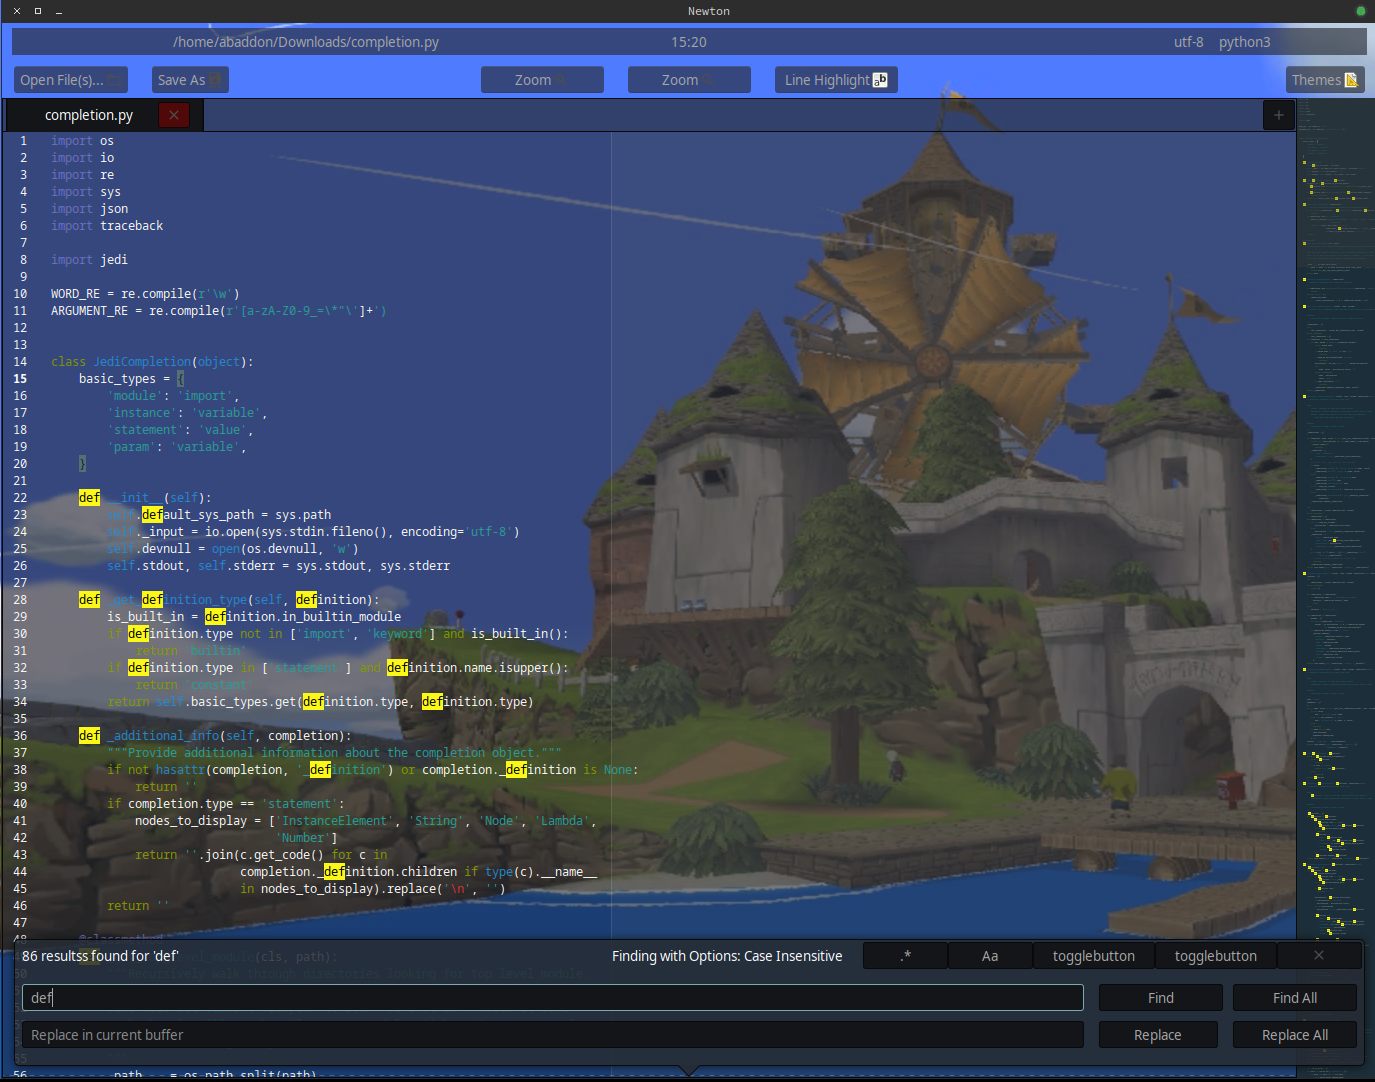
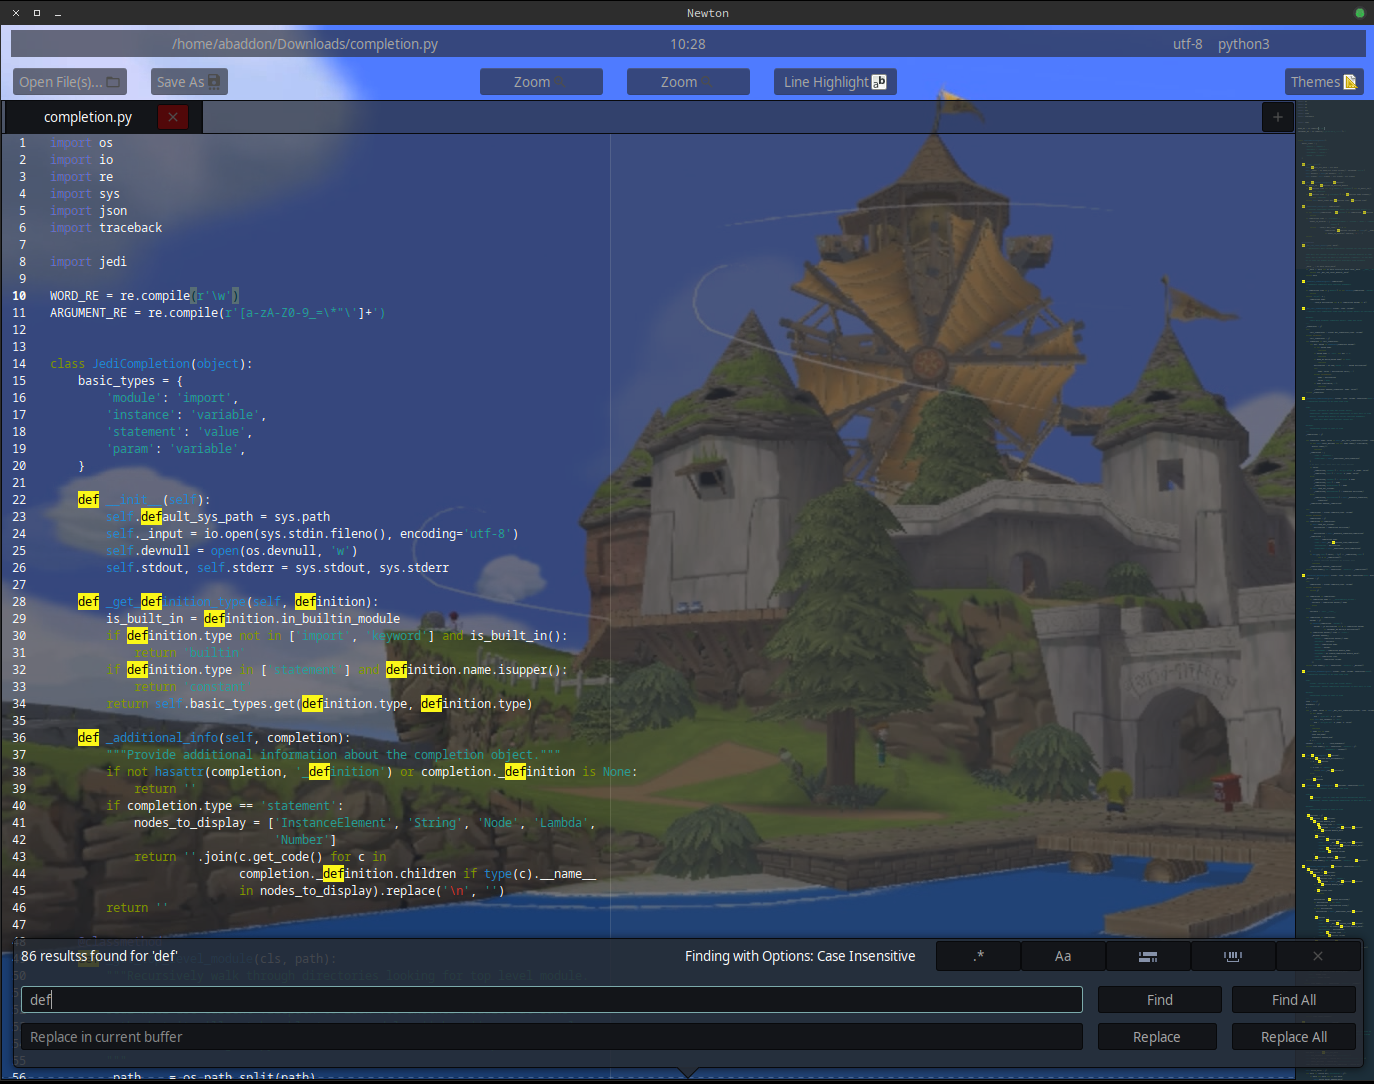
Worked more on search and replace plugin; updated image

diff --git a/plugins/search_replace/plugin.py b/plugins/search_replace/plugin.py
@@ -28,8 +28,8 @@ class Plugin(PluginBase):
 
         self.use_regex               = False
         self.use_case_sensitive      = False
-        self.use_selection_only_scan = False
-        self.use_fuzzy_search        = False
+        self.use_only_in_selection   = False
+        self.use_whole_word_search   = False
         self.highlight_color         = "#FBF719"
         self.text_color              = "#000000"
 
@@ -81,11 +81,11 @@ class Plugin(PluginBase):
         self._set_find_options_lbl()
 
     def tggle_selection_only_scan(self, widget):
-        self.use_selection_only_scan = not widget.get_active()
+        self.use_only_in_selection = not widget.get_active()
         self._set_find_options_lbl()
 
-    def tggle_fuzzy_search(self, widget):
-        self.use_fuzzy_search =  not widget.get_active()
+    def tggle_whole_word_search(self, widget):
+        self.use_whole_word_search =  not widget.get_active()
         self._set_find_options_lbl()
 
     def _set_find_options_lbl(self):
@@ -110,6 +110,9 @@ class Plugin(PluginBase):
 
         buffer.remove_tag_by_name("search_tag", buffer.get_start_iter(), buffer.get_end_iter())
         return search_tag
+
+    def find_next_entry(self, widget, eve, use_data = None):
+        ...
 
     def search_for_string(self, widget):
         query      = widget.get_text()
@@ -153,14 +156,14 @@ class Plugin(PluginBase):
 
 
 
-    def find_next(self):
+    def find_next(self, widget):
         ...
 
-    def find_all(self):
+    def find_all(self, widget):
         ...
 
-    def replace_next(self):
+    def replace(self, widget):
         ...
 
-    def replace_all(self):
+    def replace_all(self, widget):
         ...
